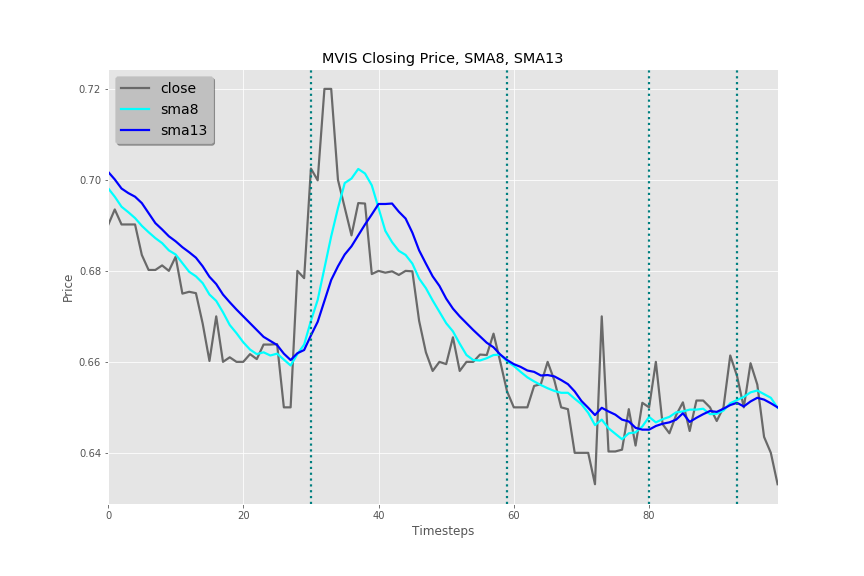
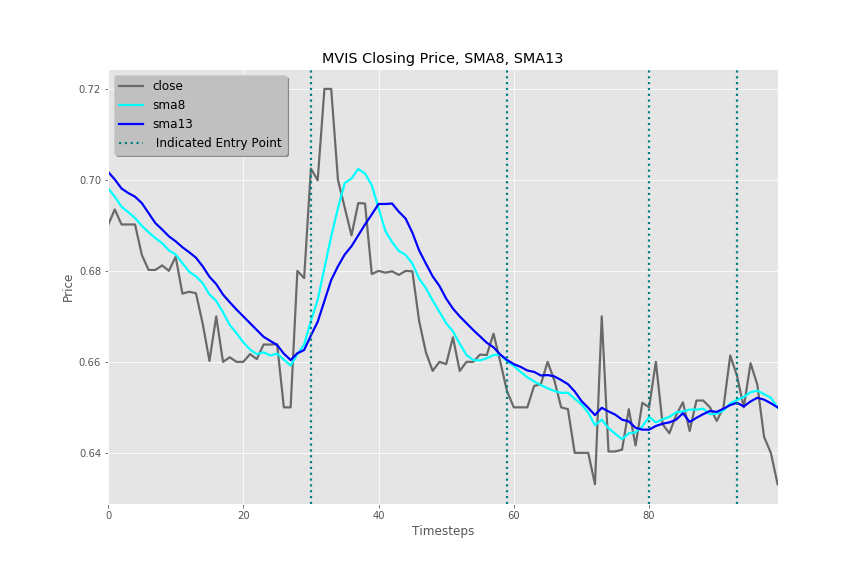
Update readme

Changed region(s): [[0.125, 0.125, 0.3438, 0.2812]]

diff --git a/README.md b/README.md
@@ -5,14 +5,24 @@ My motivation for this project is to create a reusable test environment to stati
 
 In proper nerd fashion, by the power of science, I hope to be able to either: 1) present them with contradictory results in a crowded room, or 2) use the supportive results to achieve world domination, and conveniently forget where the strategy came from. Just kidding. I'd make them a Duke or something.
 
-More practically, this test can also be used to compare the results of a Machine Learning model to that of random chance. 
+More practically, this test can also be used to measure the results of a predictive Machine Learning model in the future. 
+
+The trading conditions used for this first pass are intentionally naive, as the focus is to develop the testing framework. They are loosely based on simple explanations of simple moving averages and stop-losses found somewhere in the depths of YouTube. They will be tested against random chance for the null hypothesis, but could feasibly be tested against another set of conditions.
+
+## Technologies Used
+* Python
+* Jupyters
+* Pandas
+* Scipy
+* Matplotlib
+* PostgreSQL
 
 ## The Data
 * The data was collected from the free tier of the [Alpha Vantage](https://www.alphavantage.co/) API, using the [python wrapper](https://github.com/RomelTorres/alpha_vantage) by Romel Torres 
 	* 100 random stock tickers (excluding indexes) from the NASDAQ were selected for testing 	
 	* 5-minute timestep intervals, over the past 15 trading days (gathered on 9/11/19 - 9/12/19)
-	* Stock Price: Open, High, Low, Close
-	* SMA8/SMA13 Indicators: Single numerical value each
+		* API limitation (free tier)
+
 * Pandas was used for data manipulation
 	* Joining stock prices and their relevant indicators
 	* Creating new columns based on the given trading conditions
@@ -20,13 +30,16 @@ More practically, this test can also be used to compare the results of a Machine
 
 * A pipeline script was built to automate the collection/processing/storage
 
+Example:
+![data](images/data.png)
+
 ## Trading Strategy Conditions
 * Fixed exit conditions
 	*  +1% or -0.3% relative to purchase price, whichever happens first*
 * SMA** entry conditions
 	* If the SMA-8 crosses above the SMA-13, purchase at the open price of the following timestep 	
 
-In the image below, the dotted lines indicate entry points as determined by the SMA  entry conditions.
+Visualization of the SMA entry conditions:
 ![winloss](images/pricechart.png)
 
 \* For a given timestep, the lower bound condition was checked against the Low for that timestep before any other checks were made, and therefore may have yielded more conservative results than would have occured in real-time. Additionally, the price difference between the Close of one day and the Open of the next could vary widely, and therefore this basic algorithm may not reflect realtime trading as accurately as possible.<br>
@@ -43,7 +56,7 @@ Given specific exit conditions for a stock trade, an indicator **will** perform 
 The mean of successes from the random entries will be used to model the null hypothesis, assuming a normal distribution as per the CLT.
 
 ### Threshold
-A 0.05 significance level will be used.
+Given my lack of domain knowledge, I will default to the widely accepted 0.05 significance level.
 
 ## Execution
 1. The data was iterated through sequentially with the stated conditions to check for indicated entry points.
@@ -53,7 +66,28 @@ A 0.05 significance level will be used.
 	* This resulted in 2 Bernoulii distributions
 4. A one-tailed, independent samples t-test was used to compare the mean of the two distributions
 
+Example code to check exit conditions:
+
+```python
+# buy_idxs contains all df indexes that satisfied the SMA entry requirements
+for idx in buy_idxs:
+    purch_price = df.loc[idx, 'open']
+    upper_lim = purch_price * 1.01
+    lower_lim = purch_price * 0.997
+    for i in range(idx, len(df)):
+        if (df.loc[i, ["high", "low", "close"]]<=lower_lim).any():
+            break
+        elif (df.loc[i, ["high", "low", "close"]]>=upper_lim).any():
+            df.at[idx, "sma_win"] = 1
+            break
+
+```
+
 ## Results
+
+<p align="center">
+  <img height="460" src="images/winloss.png">
+</p>
 
 |      |   n   |   mu   |   se
 |------|-------|--------|------
@@ -62,9 +96,7 @@ A 0.05 significance level will be used.
 
 \*Out of 63,237 collected timesteps
 
-<p align="center">
-  <img height="460" src="images/winloss.png">
-</p>
+
 
 ### Conclusion
 * p-value: 0.587
@@ -84,6 +116,8 @@ However, if we were to treat this as a sample run, and go on to collect a larger
 
 
 ![winloss](images/largenpower.png)
+
+## Key Takeaways
 
 
 ## Future Improvements
